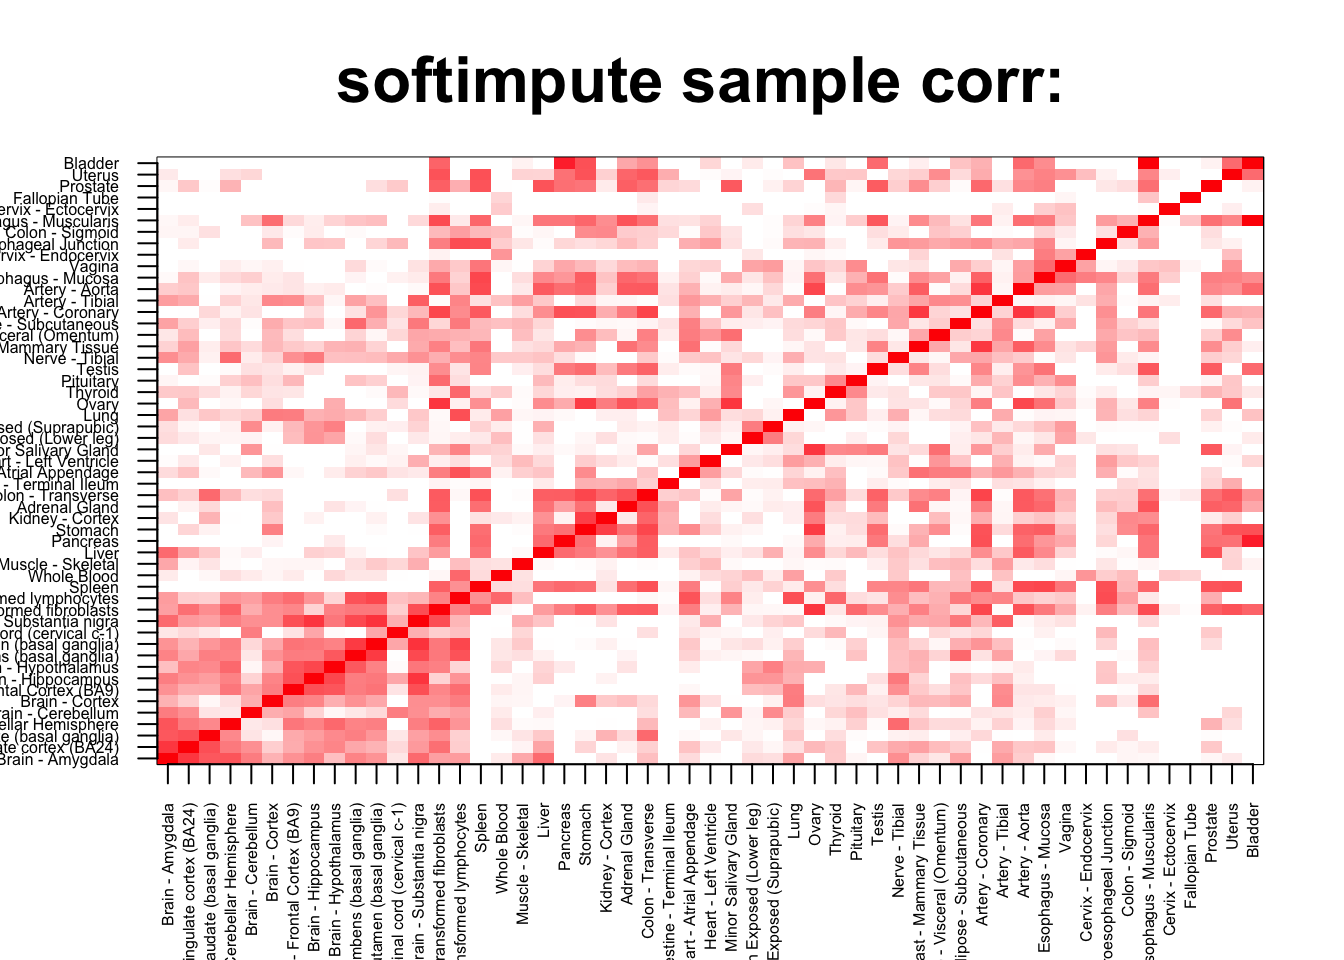
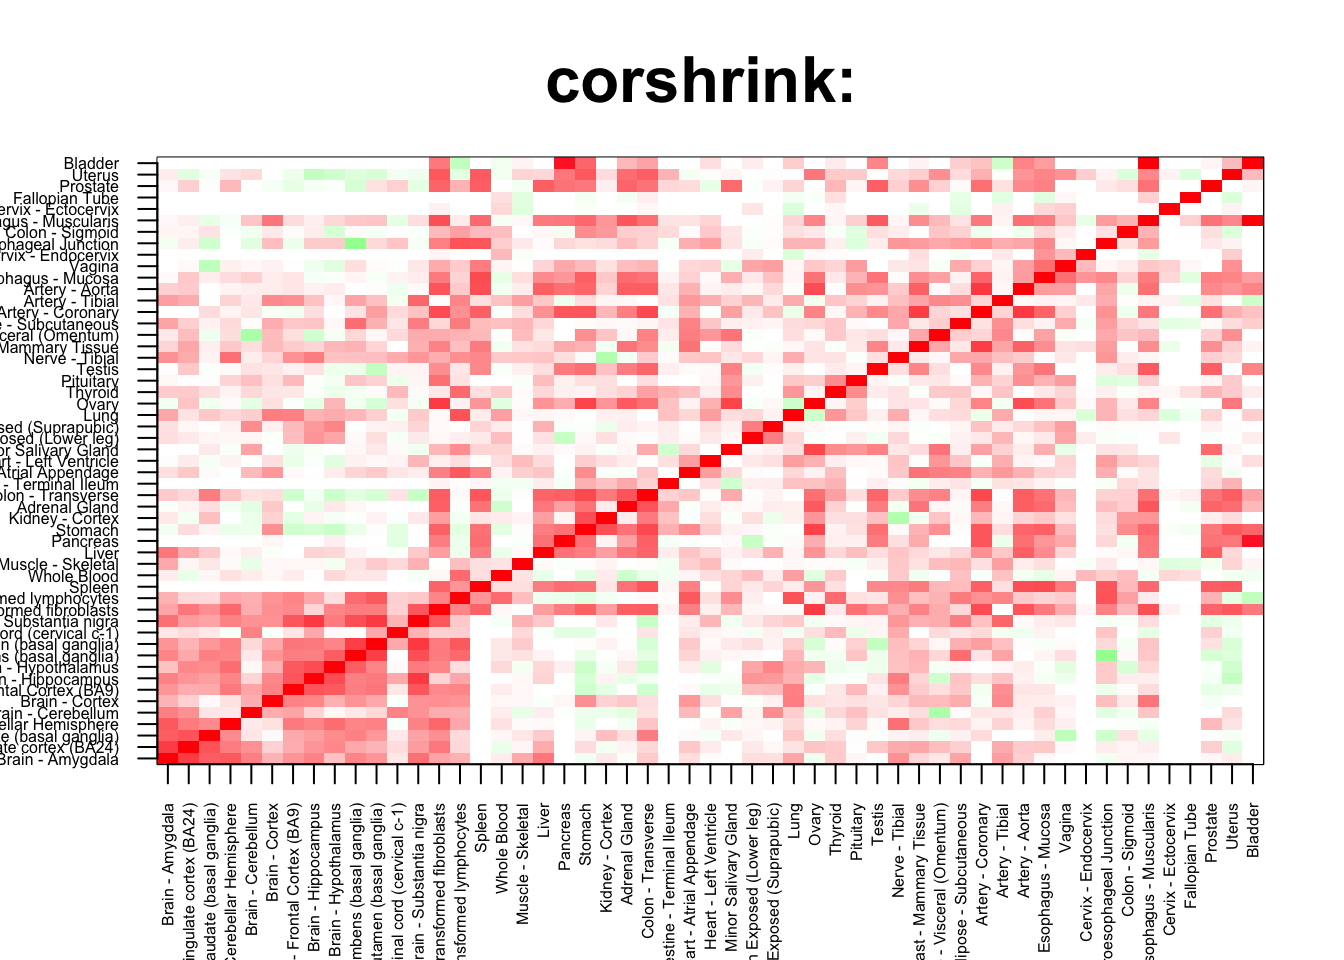
updated flash imputation file

diff --git a/docs/flash_imputation_CorShrink.html b/docs/flash_imputation_CorShrink.html
@@ -154,7 +154,7 @@ axis(2, at = seq(0, 1, length.out = 53), labels = unique_tissues[order_index], l
 <pre class="r"><code>col=c(rev(rgb(seq(1,0,length=1000),1,seq(1,0,length=1000))),
       rgb(1,seq(1,0,length=1000),seq(1,0,length=1000)))
 image(as.matrix(ash_cor_result[order_index, order_index, numg]),
-      col=col, main=paste0(&quot;softimpute sample corr: &quot;), cex.main=2,
+      col=col, main=paste0(&quot;corshrink: &quot;), cex.main=2,
       xaxt = &quot;n&quot;, yaxt = &quot;n&quot;, zlim=c(-1,1))
 axis(1, at = seq(0, 1, length.out = 53), labels = unique_tissues[order_index], las=2, cex.axis = 0.5)
 axis(2, at = seq(0, 1, length.out = 53), labels = unique_tissues[order_index], las=2, cex.axis = 0.5)</code></pre>
